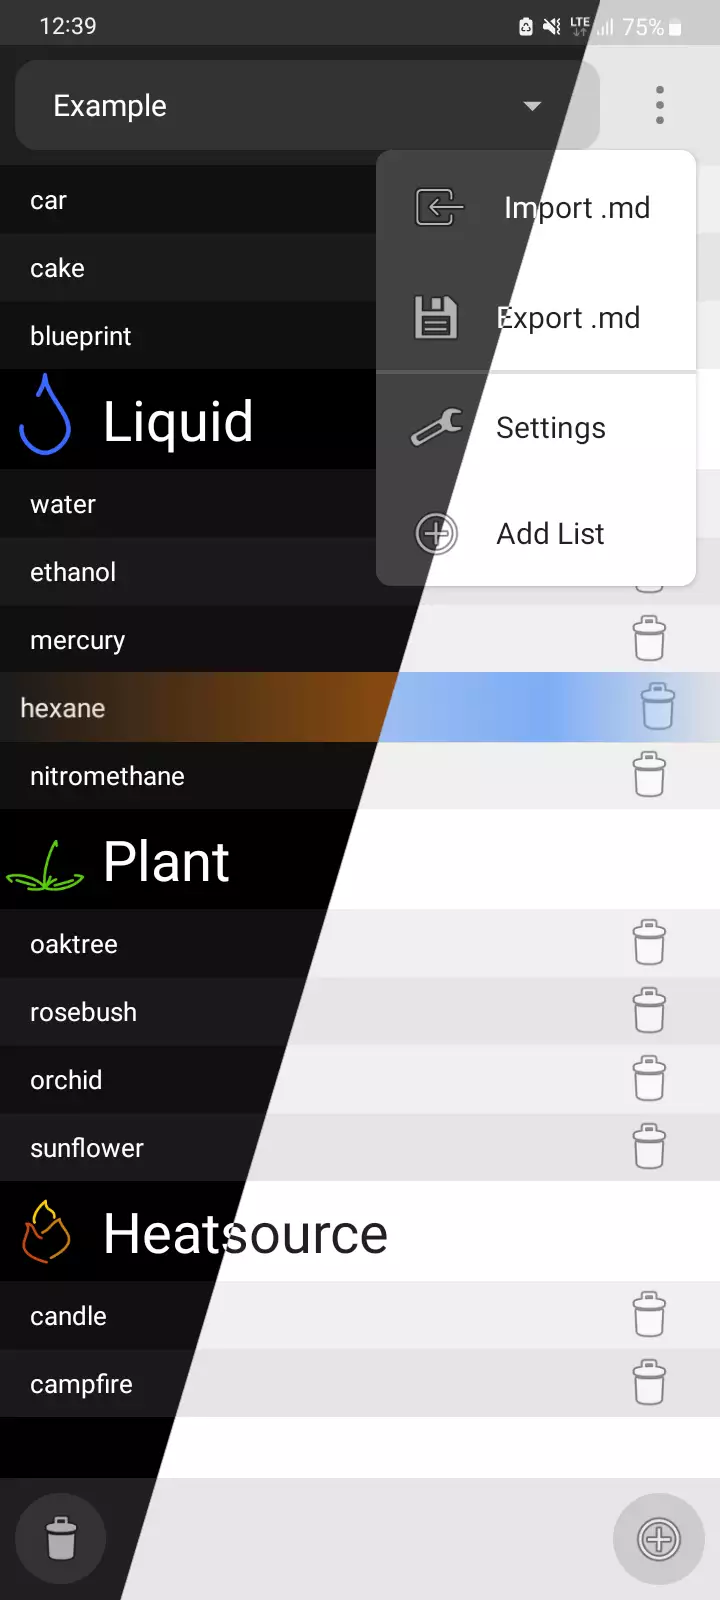
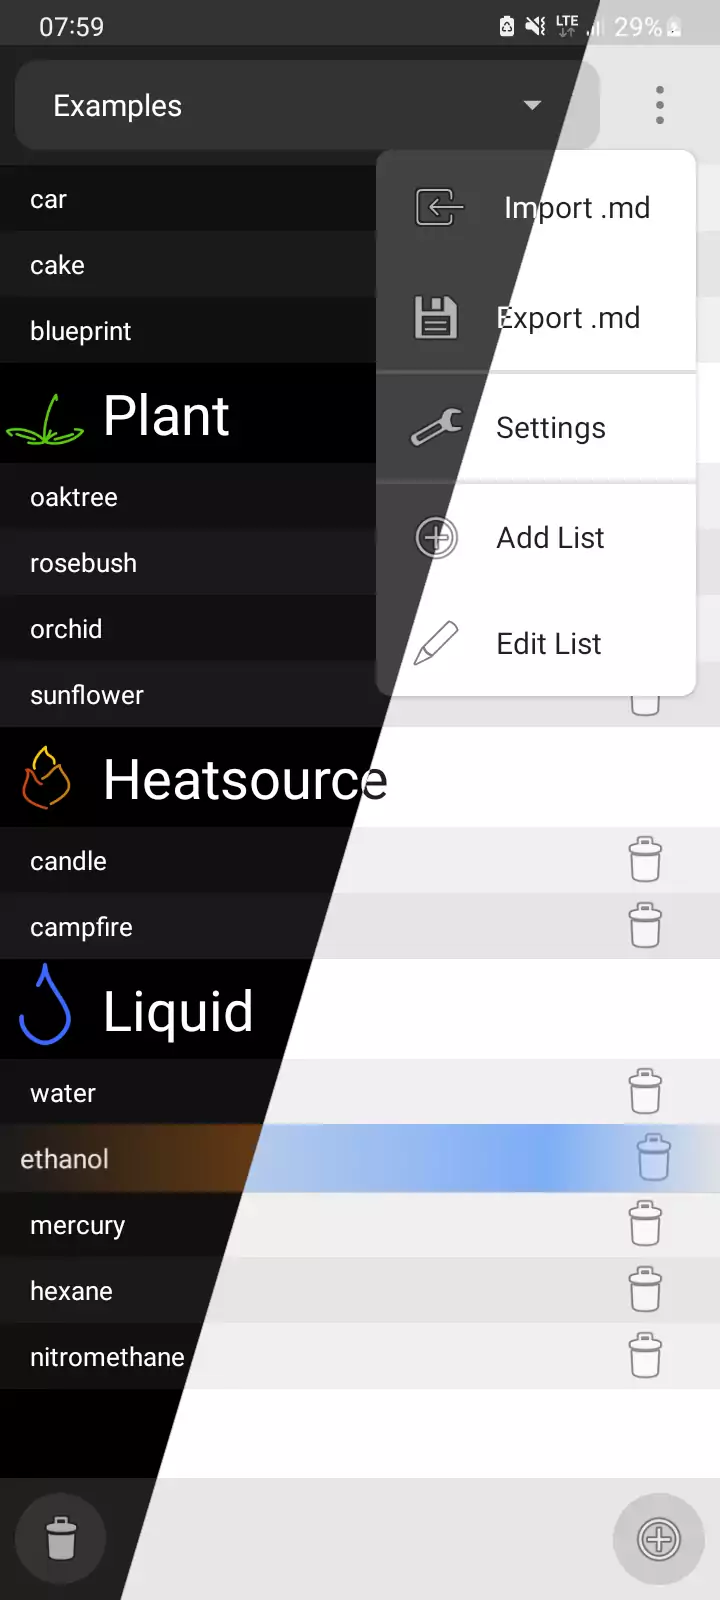
add capability to edit list names

diff --git a/app/src/main/java/kryptonbutterfly/checklist/EditListActivity.kt b/app/src/main/java/kryptonbutterfly/checklist/EditListActivity.kt
@@ -3,31 +3,60 @@ package kryptonbutterfly.checklist
 import android.os.Bundle
 import android.util.Log
 import android.view.View
+import android.widget.Button
 import androidx.activity.ComponentActivity
+import androidx.core.widget.doAfterTextChanged
 import com.google.android.material.textfield.TextInputEditText
+import kryptonbutterfly.checklist.Constants.LIST_NAME
 import kryptonbutterfly.checklist.persistence.CheckList
 import kryptonbutterfly.checklist.persistence.data
 
 class EditListActivity : ComponentActivity() {
 	private lateinit var listNameInput: TextInputEditText
+	private lateinit var buttonEditListAccept: Button
+	private var editTarget: String? = null
 	
 	override fun onCreate(savedInstanceState: Bundle?) {
 		super.onCreate(savedInstanceState)
 		setContentView(R.layout.activity_edit_list)
+		
+		buttonEditListAccept = findViewById(R.id.buttonEditListAccept)
 		listNameInput = findViewById(R.id.listName)
+		
+		listNameInput.doAfterTextChanged { buttonEditListAccept.isEnabled = isValidName() }
+		
+		if (intent.hasExtra(LIST_NAME)) {
+			val listName = intent.getStringExtra(LIST_NAME)
+			editTarget = listName
+			listNameInput.setText(listName)
+		}
 	}
 	
-	fun onApply(@Suppress("UNUSED_PARAMETER") view : View)
-	{
+	private fun isValidName(): Boolean {
 		val listName = listNameInput.text.toString()
 		val data = data(this)
-		if (!listName.isBlank() && !data.lists.containsKey(listName)) {
-			data.lists.put(listName, CheckList())
-			data.currentList = listName
+		if (listName.isBlank())
+			return false
+		return listName == editTarget || !data.lists.containsKey(listName)
+	}
+	
+	private fun updateOrCreateList() {
+		val data = data(this)
+		val listName = listNameInput.text.toString()
+		data.currentList = listName
+		
+		editTarget?.let {
+			data.lists.remove(it)
+		}?.also { list ->
+				data.lists[listName] = list
+			}?:also { data.lists.put(listName, CheckList()) }
+	}
+	
+	fun onApply(@Suppress("UNUSED_PARAMETER") view: View) {
+		if (isValidName()) {
+			updateOrCreateList()
 			setResult(RESULT_OK)
-			finish()
-		}
-		setResult(RESULT_CANCELED)
+		} else setResult(RESULT_CANCELED)
 		finish()
 	}
 	

diff --git a/app/src/main/java/kryptonbutterfly/checklist/MainActivity.kt b/app/src/main/java/kryptonbutterfly/checklist/MainActivity.kt
@@ -37,6 +37,7 @@ import kryptonbutterfly.checklist.Constants.CATEGORY
 import kryptonbutterfly.checklist.Constants.CATEGORY_HEADER_INDEX
 import kryptonbutterfly.checklist.Constants.CATEGORY_TITLE_INDEX
 import kryptonbutterfly.checklist.Constants.CHANGE_TASK
+import kryptonbutterfly.checklist.Constants.LIST_NAME
 import kryptonbutterfly.checklist.Constants.MOVE_TASK
 import kryptonbutterfly.checklist.Constants.TASKS_INDEX
 import kryptonbutterfly.checklist.Constants.UNCATEGORIZED
@@ -125,9 +126,8 @@ class MainActivity : AppCompatActivity(), DeleteAllDialog.DialogListener {
 	
 	private val addListResult =
 		registerForActivityResult(ActivityResultContracts.StartActivityForResult()) { result ->
-			if (result.resultCode == RESULT_OK) {
+			if (result.resultCode == RESULT_OK)
 				populateUI()
-			}
 		}
 	
 	override fun onCreate(savedInstanceState: Bundle?) {
@@ -195,6 +195,7 @@ class MainActivity : AppCompatActivity(), DeleteAllDialog.DialogListener {
 		
 		listsAdapter.clear()
 		listsAdapter.addAll(data.lists.keys)
+		spinnerList.invalidate()
 		spinnerList.setSelection(listsAdapter.getPosition(data.currentList))
 		
 		val unspecified = findViewById<RecyclerView>(R.id.taskList)
@@ -242,7 +243,13 @@ class MainActivity : AppCompatActivity(), DeleteAllDialog.DialogListener {
 	fun onAddListClick(@Suppress("UNUSED_PARAMETER") view: View) {
 		dropDown.visibility = GONE
 		addListResult.launch(Intent(this, EditListActivity::class.java))
-		
+	}
+	
+	fun onEditListClick(@SuppressLint("UNUSED_PARAMETER") view: View) {
+		dropDown.visibility = GONE
+		val intent = Intent(this, EditListActivity::class.java)
+		intent.putExtra(LIST_NAME, data(this).currentList)
+		addListResult.launch(intent)
 	}
 	
 	fun onDropDownClick(@Suppress("UNUSED_PARAMETER") view: View) {

diff --git a/app/src/main/java/kryptonbutterfly/checklist/Constants.kt b/app/src/main/java/kryptonbutterfly/checklist/Constants.kt
@@ -21,6 +21,7 @@ object Constants
 
     const val ACTION = "ACTION"
     
+    const val LIST_NAME = "listName"
     const val CATEGORY = "CATEGORY"
     const val INDEX = "INDEX"
     const val DESCRIPTION = "DESCRIPTION"

diff --git a/README.md b/README.md
@@ -13,4 +13,4 @@ A primitive checklist app.
 </div>
 
 ## Download
-[CheckList.apk](https://github.com/kryptonbutterfly/CheckList/releases/download/v4.1.8/CheckList.apk)
+[CheckList.apk](https://github.com/kryptonbutterfly/CheckList/releases/download/v4.1.9/CheckList.apk)